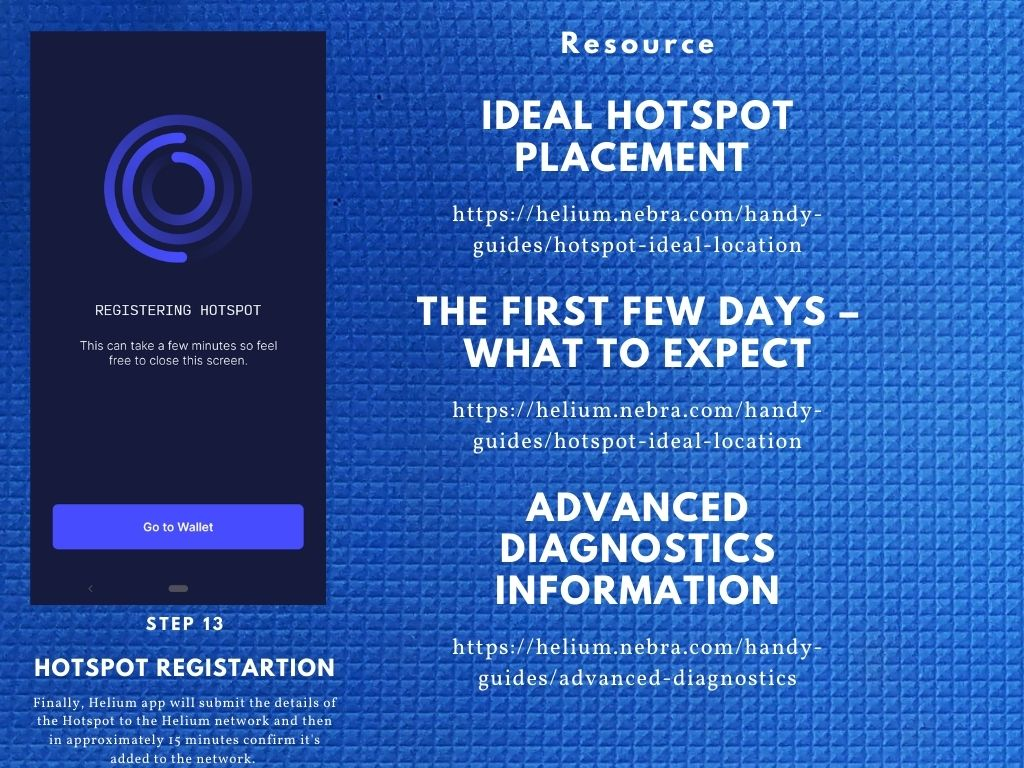
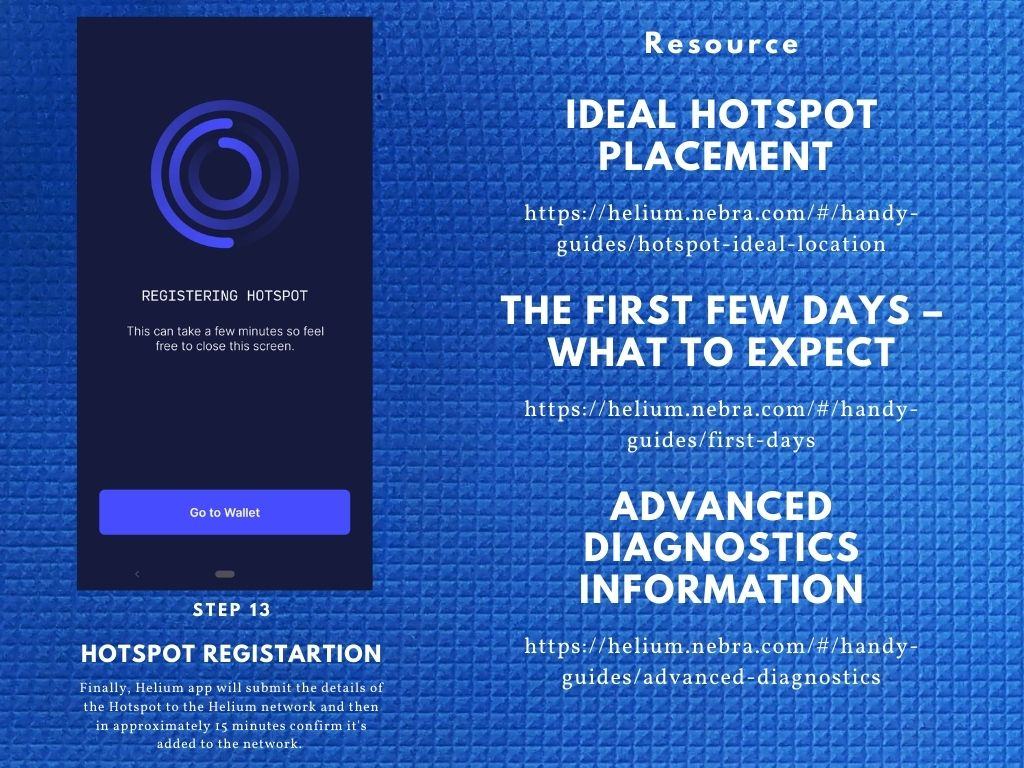
fix hotspot quickstart guide resource link

diff --git a/docs/indoor-rockpi-hotspot/quick-start.md b/docs/indoor-rockpi-hotspot/quick-start.md
@@ -142,6 +142,12 @@ To configure your Hotspot, you will require the Helium Network application insta
 
 You can move device to another location, However every time you move your hotspot to a new location you will need to pay the $10 location assert fee again.
 
+**Resource**
+
+* [Ideal Hotspot Placement ](https://helium.nebra.com/#/handy-guides/hotspot-ideal-location)
+* [The First Few Days, What to Expct](https://helium.nebra.com/#/handy-guides/first-days)
+* [Advanced Diagnotics Information](https://helium.nebra.com/#/handy-guides/advanced-diagnostics)
+
 ## Onboarding Video
 
 You can also watch this video to learn how to onboard the hotspot. This is using the Nebra Indoor Hotspot on Android, but the process is very similar for the Outdoor Hotspot and using iOS devices:

diff --git a/docs/indoor-hotspot/quick-start.md b/docs/indoor-hotspot/quick-start.md
@@ -143,8 +143,13 @@ To configure your Hotspot, you will require the Helium Network application insta
 
 ![Indoor Hotspot App Step 13](../media/photos/indoor/step12.jpg ':size=800')
 
-
 You can move device to another location, However every time you move your hotspot to a new location you will need to pay the $10 location assert fee again.
+
+**Resource**
+
+* [Ideal Hotspot Placement ](https://helium.nebra.com/#/handy-guides/hotspot-ideal-location)
+* [The First Few Days, What to Expct](https://helium.nebra.com/#/handy-guides/first-days)
+* [Advanced Diagnotics Information](https://helium.nebra.com/#/handy-guides/advanced-diagnostics)
 
 ## Onboarding Video
 
